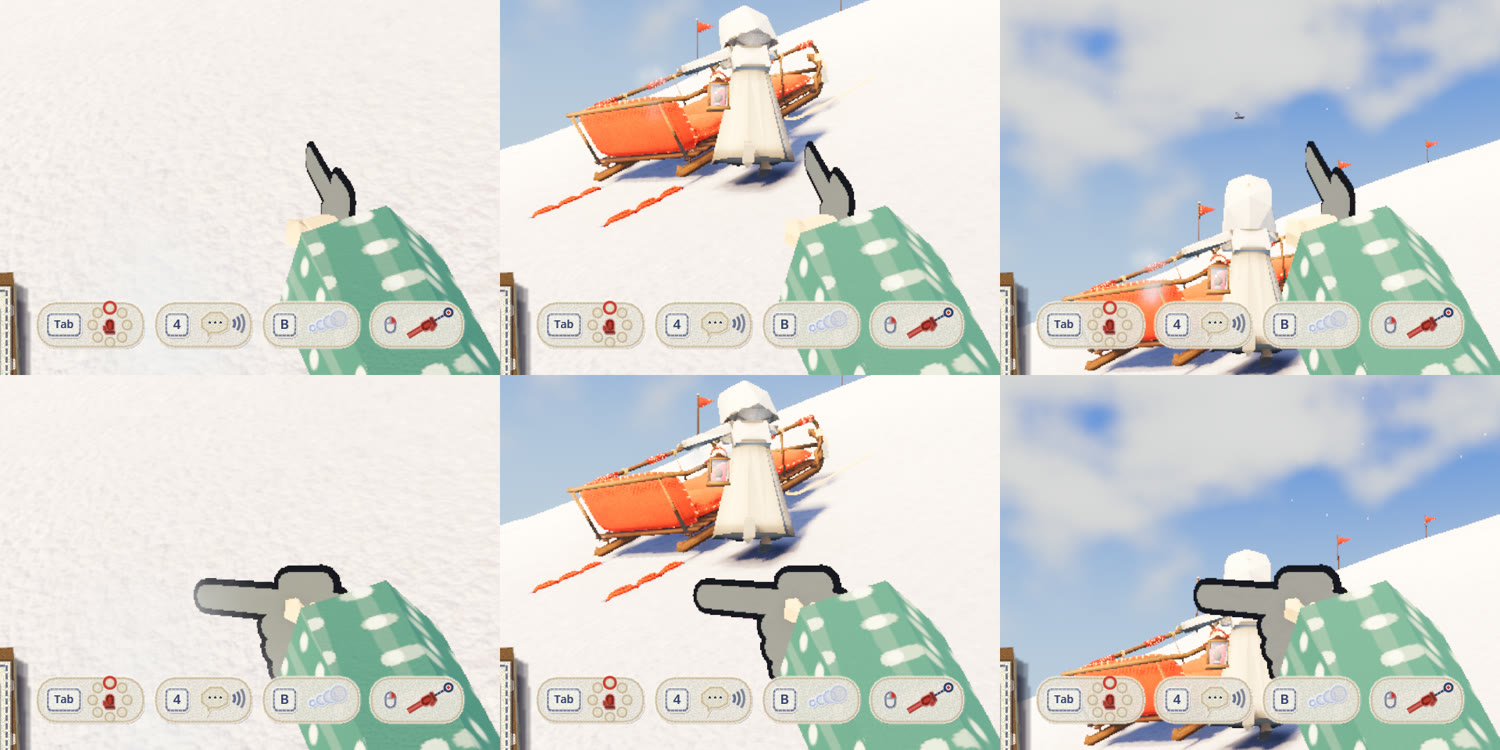
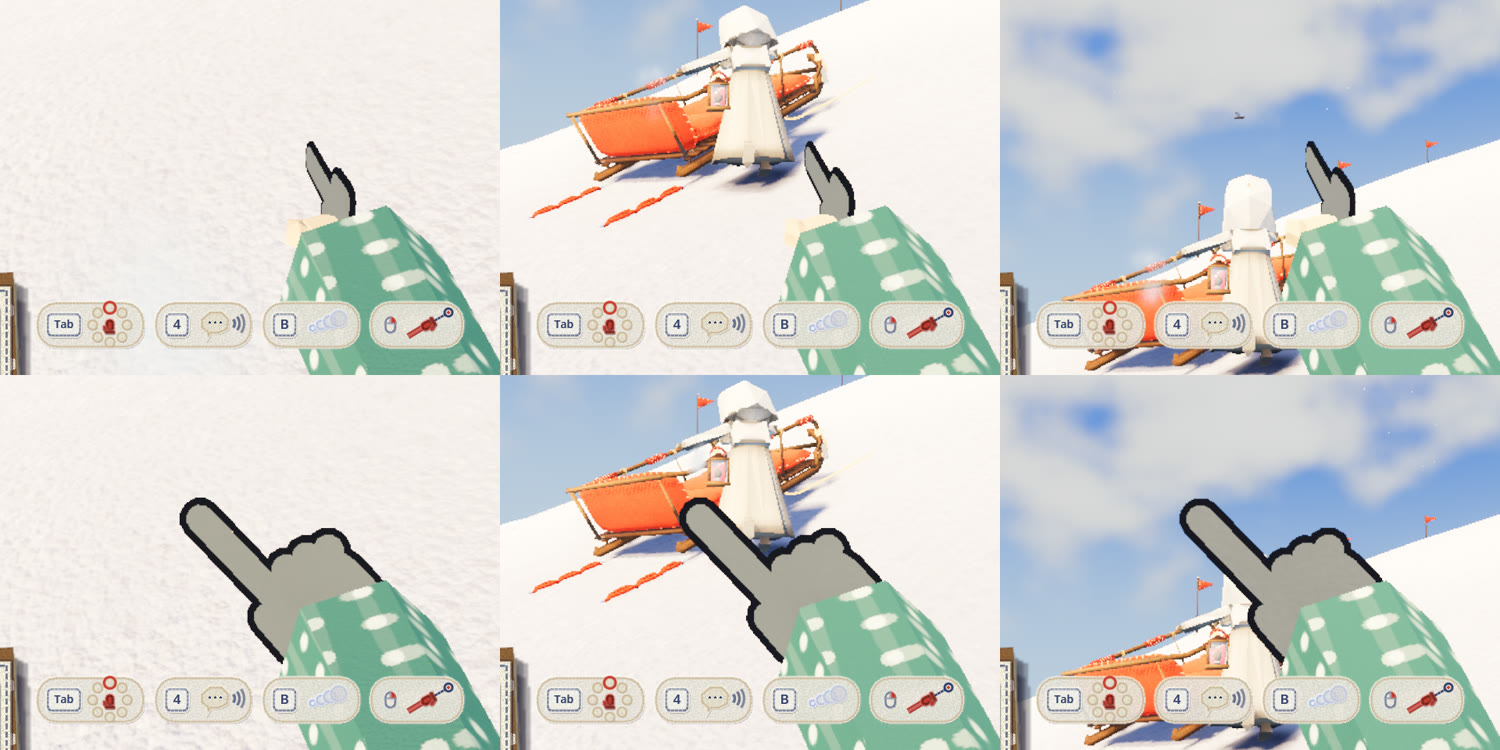
一人称の指さしの手形を、人さし指が消失点を指し、親指が内側になる向きに直す
- 代表「親指が内側で小指が外側になるようにして」「人差し指が消失点に向かってほしい」
- 紙の手形を画面に向け（手の甲が見える）、手の所から画面のまんなか（消失点）への向きに人さし指を回す。
  親指と人さし指が内側、折った指が外側。前のコミットの、水平に向ける置き方はやめる

diff --git a/design/art-concept.md b/design/art-concept.md
@@ -143,7 +143,7 @@
 - **付属品は少なく**: 最初から多くを持たせると、服や帽子を集める楽しみが薄れる。① の笠は、つばの向きで目線が読めるので残す。笠のような身につけるものは、集めて着替える側に回す
 - **共在感覚のために入れるもの**（調べの要約）: 目線（頭の向きと笠のつば）、手を振る・腕で指す（手を自由に動かせる型）、言葉にならない声（白い息を大きく）、白い息。口は描かない。名前は出さない
 - **指さしと顔の向き**（2026-10-27。相互行為でいちばん大事な手がかりの一つ。2026-10-31 に、視点についていく形に変えた）: 右クリック（か身ぶりの輪・2 キー）で指さしを入れると、選んだ手の腕をまっすぐ伸ばして指す（指は分けず腕で）。入れているあいだ、腕はいま見ている先（画面のまんなかが当たる所）を追い、見回すと指す先も一緒に動く（代表「指差し時に向きを固定していますが、視点に追従するほうがわかりやすいので、向き固定はやめましょう」）。追い方はなめらかで（向きを回し、長さを近づける。腕の形は人形の 12 コマで刻む）、手前の物と遠くの雪のあいだで当たる所が跳んでも腕は飛ばない。前の作り（指した所に残す・ソリや人に吸い付いて相手が動いても指し続ける）はやめた。もう一度押すと腕を下ろす。ソリをつかんでいても、その手を離して指せる。一人称でも手袋が画面のまんなかへ伸びる。指しているあいだは、顔もそこを見る。顔は首と頭で大きく回り（左右 75°、上 43°・下 52°）、届かない分は胸も少し回す。仲間は、あなたがいま指している所を一緒に見る（共同注意。指す先が動けば、目も追う）。指していないときは、近くのあなたの顔を見る
-  - **一人称の指さしの手形は床に平行**（2026-10-31 代表「指差しは床に平行な方が見やすい」。腕ではなく指のワッペンのこと）: 一人称で指すときの紙の手形（人さし指のアップリケ）を、腕に沿った斜め上向きではなく、画面の中で水平に、画面のまんなかの側へ向け、手の甲を自分へ向ける。見上げても見下ろしても向きは変わらない。腕そのものは、これまでどおり見ている先へ伸びる。`--point-tilt` で前の向きと見比べられる。絵 [point-finger-level.jpg](hud/point-finger-level.jpg)（左から見下ろす・前・見上げる。上が前、下が直した後）
+  - **一人称の指さしの手形は、人さし指を消失点へ**（2026-10-31 代表「指差しは床に平行な方が見やすい」「親指が内側で小指が外側になるようにして」「人差し指が消失点に向かってほしい」。腕ではなく指のワッペンのこと）: 一人称で指すときの紙の手形（人さし指のアップリケ）を画面に向け（手の甲が見える）、画面の中で、手の所から画面のまんなか（消失点）への向きに人さし指を向ける。親指と人さし指が内側、折った指（小指の側）が外側。前は腕に沿って、指が斜め上を向いていた。腕そのものは、これまでどおり見ている先へ伸びる。`--point-tilt` で前の向きと見比べられる。絵 [point-finger-level.jpg](hud/point-finger-level.jpg)（左から見下ろす・前・見上げる。上が前、下が直した後）
   - **通信**: 指す先は動き続けるので、毎コマは送らない。配り役（`emotes.gd`）へ「指している向き（頭から）と長さ」の出来事 `point` を、向きが 4° 以上変わったときだけ、多くても 1 秒に 6 回送る。下ろすときは向きなしで送る。ほかの人（いまは仲間）は、配られた向きから指す先を出す（`point_of`）。ずれは 4° まで
 - **使い込み（案）**: たくさん遊ぶと、水のシミ・転ぶ・ソリに轢かれるで紙の体に折りじわが増える。乾かすとシミは薄くなるが、折りじわは残る、など。まだ入れていない
 - **まだ決めていない**: 遊ぶ人がどの人形を選ぶか（いまは あなた = ①、仲間 = ② と ③）、色違い、③ の麻布の毛羽をゲームで描くか（シェルテクスチャリング）。輪（Tab）は挨拶のボタンではなく手と声の材料を選ぶもの、と代表が決めた（2026-10-28〜29、下の「手と身ぶり」）。手を振る（Q）は、高い片手のひらと役が重なるので外した
